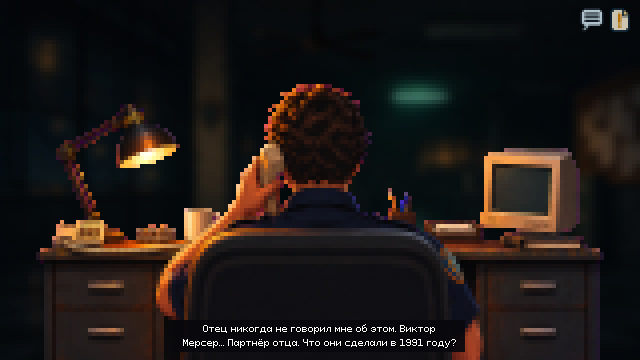
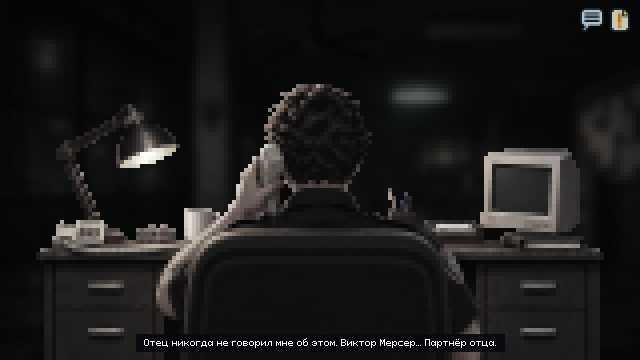
[Э3][s01] paged long text (TextPager); call: caps lines, desaturation, button after thoughts; casefile/note reactions

diff --git a/docs/scenes/s01_precinct_design.md b/docs/scenes/s01_precinct_design.md
@@ -48,7 +48,7 @@ Cole найден мёртвым в своём кабинете.
 На стене написано:
 “ONE LIFE OWED. BALANCE REQUIRED.”
 ```
-- Реакция Алексея: [заглушка]
+- Реакция Алексея: «Коул... Он ушел от ответа несколько лет назад. Он смеялся мне в лицо, когда выходил из зала суда. А теперь он мертв. И никто не плачет. Странно... почему я не чувствую жалости? Почему мне кажется, что мир стал чуть чище?» (показывается по частям)
 
 ### Документ 3. Записка от коллеги
 - Визуал: записка на случайном клочке бумаги. Смысл: другие сотрудники тоже не понимают, что происходит. Текст (дословно):
@@ -69,7 +69,7 @@ TO: Officer Alexei Karamazov
 никто из них не говорит “я хочу исправить”.
 Все говорят “я хочу, чтобы это прекратилось”
 ```
-- Реакция Алексея: [заглушка]
+- Реакция Алексея: «Похоже на какой-то розыгрыш.»
 
 ### Телефон
 Телефон эпохи 1998 года на столе. Интерактивность — пока не обсуждаем.

diff --git a/docs/STATUS.md b/docs/STATUS.md
@@ -17,6 +17,7 @@ Codex CLI: 0.169.0 (Node 26 LTS через nvm), вход: да (ChatGPT)
 | s01_precinct | дизайн DRAFT | ТЗ DRAFT; bg_exposition (v1_c), bg_desk (по рефу 05), 3 документа-спрайта APPROVED; крупные планы TODO | экспозиция | экспозиция — черновик (речь, маркеры, пыль, кнопка); стол — заготовка | — |
 
 ## Последние действия (последние 5, новые сверху)
+- 2026-11-18 Э3: длинные реплики/мысли — по страницам (TextPager, пробел/клик); звонок: 2 реплики Фёдора капсом, цвет уходит в ч/б, кнопка после всех мыслей; реакции на дело и записку
 - 2026-11-18: приватный репозиторий https://github.com/Elmisaa/2d-game (ветка master), шелест бумаги тише
 - 2026-11-18 Э3: кат-сцену s00 тоже нельзя пропустить
 - 2026-11-18 Э3: шелест бумаги при наведении на документы, перелистывание при открытии; эмбиент дождя вместо стартовой музыки (ждём файл 877124); цитату нельзя пропустить

diff --git a/docs/DECISIONS.md b/docs/DECISIONS.md
@@ -49,3 +49,6 @@ Pixeloid Sans / Sans Bold / Mono (GGBotNet, SIL OFL 1.1), 9 px. Файлы и л
 
 ## 17. Тесты не мешают пользователю (2026-11-18)
 Автотесты гонять `--headless`. Скриншоты — только с окном за экраном: `--position 20000,20000`. В каждом тесте — `SAFETY_TIMEOUT` (90 с), чтобы окно никогда не зависало.
+
+## 18. Длинный текст — по страницам (2026-11-18)
+`TextPager.pages(text, max_chars)` режет текст по предложениям (~80–90 символов на страницу); следующая страница — пробел/клик. Используется в звонке (реплики и мысли) и в реакциях на документы. В историю пишется полный текст.
